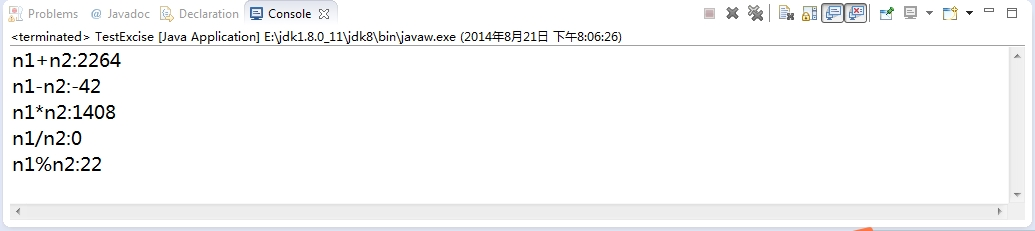
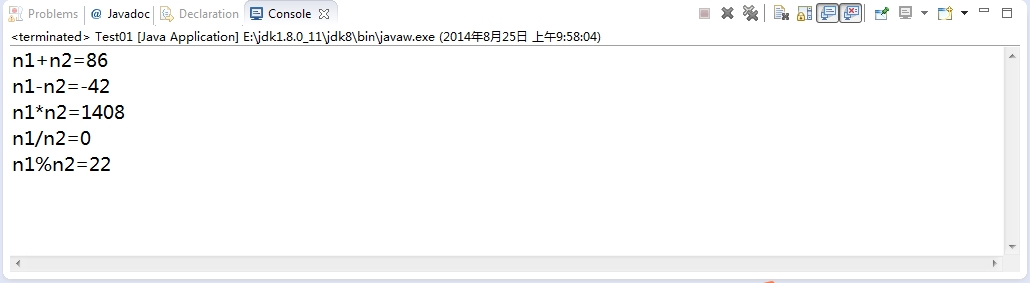
BrainFuck

diff --git a/javacode/java1/1.2.md b/javacode/java1/1.2.md
@@ -121,7 +121,7 @@
     
     D．x*x+y*y+x*y
 
-+ 1.2.13.1 以下正确的关系表达式是：C
++ 1.2.13.1 以下正确的关系表达式是：D
 
     A．x≥y
     
@@ -251,16 +251,16 @@
                  System.out.println(“i+j+k=”+ i+j+k);
               }
           }
-          
-	其执行结果是 【  20 】。
+
+	其执行结果是 【  i+j+k=1055 】。
 
 1.2.3 编程题
 
 + 1.2.3.1 编写一个应用程序，定义两个整型变量n1,n2。当n1=22，n2=64时计算输出n1+n2，n1-n2，n1*n2，n1/n2，n1%n2的值。
-		
+
         /**
          * java基础习题（一）
-         * 
+         *
          * @author: chenzhigang
          * @version: date: 2014年8月21日
          * mailto: chenzhigang@foxmail.com
@@ -270,14 +270,14 @@
         public class TestExcise {
             public static void main(String[] args) {
                 int n1=22,n2=64;
-                System.out.println("n1+n2:"+n1+n2);
+                System.out.println("n1+n2:"+(n1+n2));
                 System.out.println("n1-n2:"+(n1-n2));
                 System.out.println("n1*n2:"+n1*n2);
                 System.out.println("n1/n2:"+n1/n2);
                 System.out.println("n1%n2:"+n1%n2);
             }
         }
-        
+
     结果截图如下：
     ![](images/pk1.jpg)
 
@@ -287,9 +287,9 @@
          * java基础习题（一）
          *
          * @author: chenzhigang
-         * @version: date: 2014年8月21日 
+         * @version: date: 2014年8月21日
          * mailto: chenzhigang@foxmail.com
-         * blog:http://chenzhigang.github.io/ 
+         * blog:http://chenzhigang.github.io/
          * review
          */
         public class TestExcise {
@@ -302,15 +302,15 @@
                 System.out.println("n%n2==0:"+(n1%n2==0));
             }
         }
-        
+
    结果截图如下：
    ![](images/pk2.jpg)
-        
+
 + 1.2.3.3 编写一个应用程序，定义两个float 变量C、F。计算公式C=5/9（F-32），计算当F=60、F=90时，输出C 的值。
 
 		/**
          * java基础习题（一）
-         * 
+         *
          * @author: chenzhigang
          * @version: date: 2014年8月21日 
          * mailto: chenzhigang@foxmail.com

diff --git a/javacode/java1/1.4.md b/javacode/java1/1.4.md
@@ -311,24 +311,32 @@
                 boolean flag=false;
                 int count=0;
                 for(int i=1000;i<=9999;i++){
-                    int min=min1(i,minArray,maxArray);
-                    int max=max1(minArray,maxArray);
-                    while(true){
-                        int result=max-min;
-                        min=min1(result,minArray,maxArray);
-                        max=max1(minArray,maxArray);
-                        count++;
-                        if(result==6174){
-                            if(count<=7){
-                                flag=true;
+                    if(i%1111!=0){
+                        int min=min1(i,minArray,maxArray);
+                        int max=max1(minArray,maxArray);
+                        while(true){
+                            int result=max-min;
+                            min=min1(result,minArray,maxArray);
+                            max=max1(minArray,maxArray);
+                            count++;
+                            if(result==6174){
+                                break;
                             }
+                            if(count<=7){
+                                count=0;
+                                flag=true;
+                            }else{
+                                flag=false;
+                            }
+                        }
+                        if(!flag){
                             break;
                         }
                     }
                 }
                 return flag;
-            }
-        }
+           }
+      }
 
      结果截图如下：
      ![](images/tk4.jpg)
